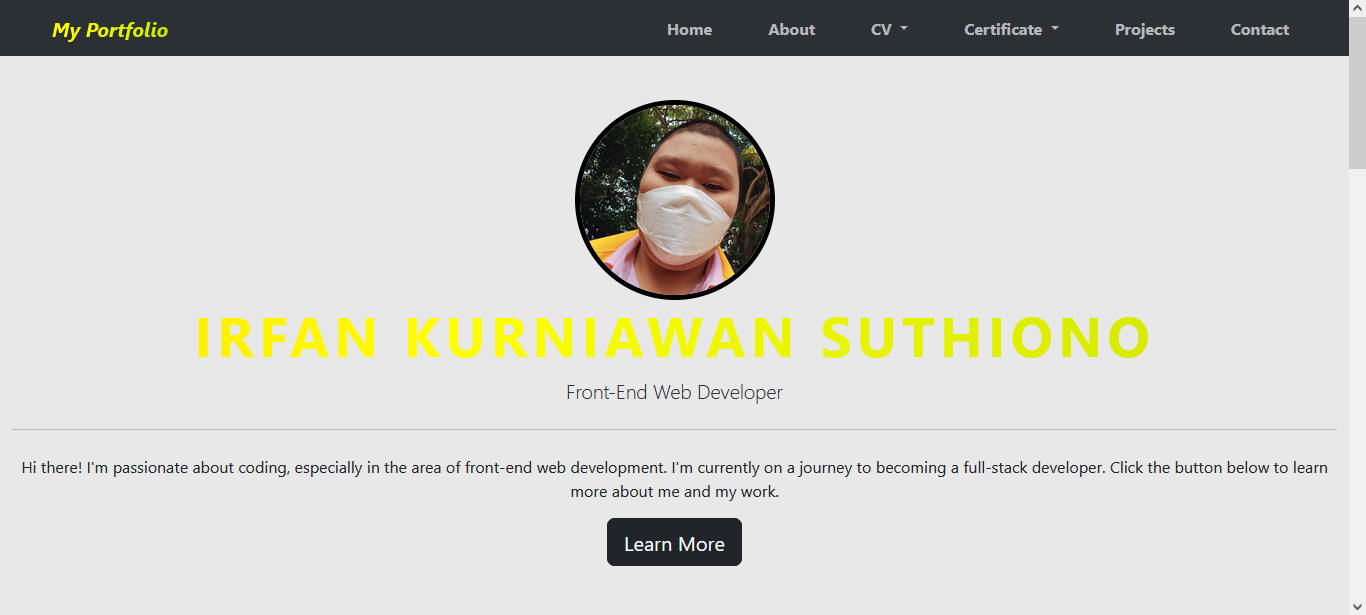
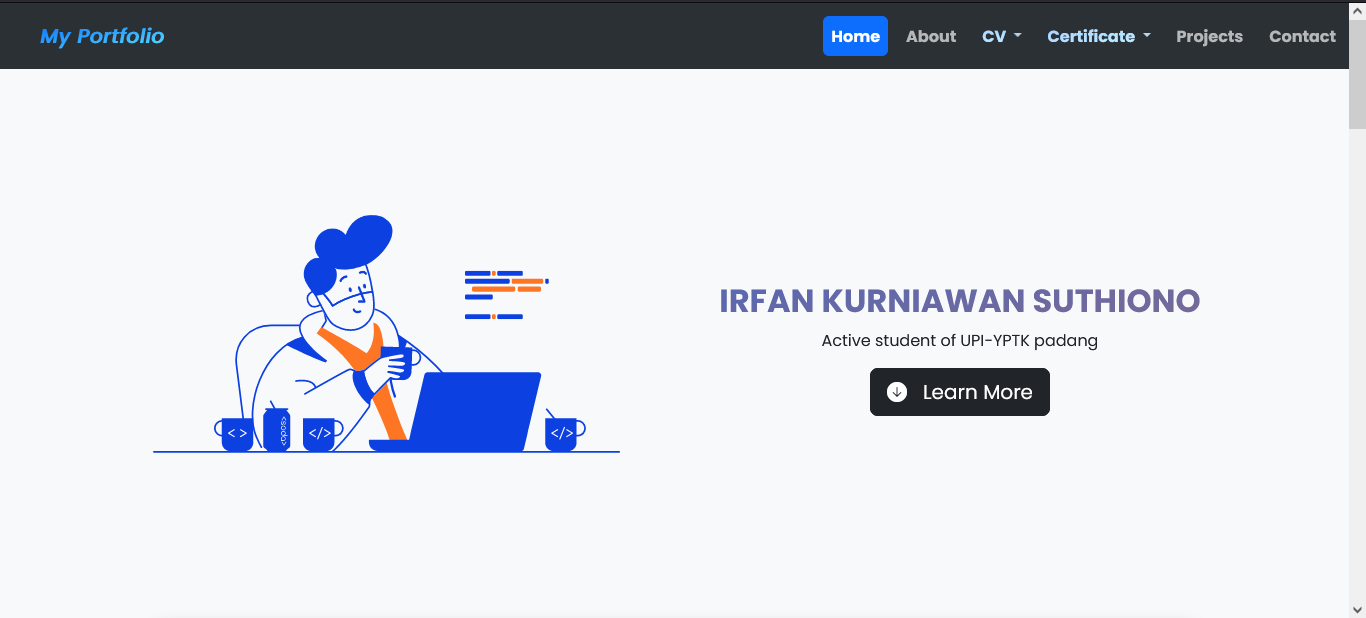
updated animate, thumbnail current portfolio

diff --git a/index.html b/index.html
@@ -7,9 +7,6 @@
     <title>Irfan Kurniawan</title>
 
     <!-- bootstrap -->
-    <script src="https://cdn.jsdelivr.net/npm/bootstrap@5.3.0-alpha3/dist/js/bootstrap.bundle.min.js" integrity="sha384-ENjdO4Dr2bkBIFxQpeoTz1HIcje39Wm4jDKdf19U8gI4ddQ3GYNS7NTKfAdVQSZe" crossorigin="anonymous"></script>
-
-    
     <link rel="stylesheet" href="https://cdn.jsdelivr.net/npm/bootstrap-icons@1.10.5/font/bootstrap-icons.css">
     <link href="bootstrap/css/bootstrap.css" rel="stylesheet" />
     <link rel="stylesheet" href="style.css" />
@@ -27,6 +24,9 @@
     <link rel="preconnect" href="https://fonts.googleapis.com">
     <link rel="preconnect" href="https://fonts.gstatic.com" crossorigin>
     <link href="https://fonts.googleapis.com/css2?family=Poppins:wght@400;700&display=swap" rel="stylesheet">
+    <link rel="preconnect" href="https://fonts.googleapis.com">
+    <link rel="preconnect" href="https://fonts.gstatic.com" crossorigin>
+    <link href="https://fonts.googleapis.com/css2?family=Poppins:ital,wght@1,500&display=swap" rel="stylesheet">
   </head>
   <body class="bg-body-tertiary">
     <header>
@@ -148,7 +148,8 @@
                   <div class="row ms-auto">
 
                     <!-- projek 1 -->
-                    <div class="col" data-aos="zoom-in-up" data-aos-duration="1000">
+                    <div class="col" data-aos="fade-up-right" data-aos-duration="1000" style="zin
+                    2">
                       <div class="card" style="width: 30rem;">
                           <img src="img/projek 1/projek1_thumbnail.png" class="card-img-top" alt="blogspot">
                           <div class="card-body">
@@ -169,7 +170,7 @@
 
 
                     <!-- wordpress - projek 2 -->
-                    <div class="col" data-aos="zoom-in-up" data-aos-duration="1500">
+                    <div class="col" data-aos="fade-up-left" data-aos-duration="1000">
                       <div class="card" style="width: 30rem;">
                           <img src="img/projek 2/testing-wordpress.png" class="card-img-top" alt="portfolio website pertama">
                           <div class="card-body">
@@ -190,7 +191,7 @@
 
 
                     <!-- projek 3 -->
-                    <div class="col" data-aos="zoom-in-up" data-aos-duration="1000">
+                    <div class="col" data-aos="fade-up-right" data-aos-duration="1000">
                       <div class="card" style="width: 30rem;">
                           <img src="img/projek 3/projek3_thumbnail.png" class="card-img-top" alt="portfolio website pertama">
                           <div class="card-body">
@@ -211,7 +212,7 @@
 
 
                     <!-- projek 4 - current website -->
-                    <div class="col" data-aos="zoom-in-up" data-aos-duration="1500">
+                    <div class="col" data-aos="fade-up-left" data-aos-duration="1000">
                       <div class="card" style="width: 30rem;">
                           <img src="img/projek 4/projek4_thumbnail.png" class="card-img-top" alt="portfolio website sekarang">
                           <div class="card-body">
@@ -239,14 +240,14 @@
         <div id="scrollspyHeading4">
           <div id="contact"></div>
             <!-- contact -->
-          <section class="contact" data-aos="fade-out">
+          <section class="contact" data-aos="flip-down">
             <div class="container">
               <div class="row text-center mb-3">
                 <div class="col">
                   <h2 class="contacts">Contact Me</h2>
                 </div>
               </div>
-              <form action="https://formspree.io/f/xzboojey" method="post">
+              <form action="https://formspree.io/f/xzboojey" target="_blank" method="post">
                 <div class="row justify-content-center">
                   <div class="col-md-4">
                     <div class="mb-3">
@@ -344,5 +345,9 @@
         <script>
           AOS.init();
         </script>
+
+
+        <!-- Bootstrap -->
+        <script src="https://cdn.jsdelivr.net/npm/bootstrap@5.3.0-alpha3/dist/js/bootstrap.bundle.min.js" integrity="sha384-ENjdO4Dr2bkBIFxQpeoTz1HIcje39Wm4jDKdf19U8gI4ddQ3GYNS7NTKfAdVQSZe" crossorigin="anonymous"></script>
       </body>
 </html>

diff --git a/style.css b/style.css
@@ -103,7 +103,7 @@ main{
 
 /* aboutme */
 #about{
-    height: 10em;
+    height: 8em;
 }
 .about-container{
     display: flex;
@@ -172,6 +172,7 @@ main{
 }
 .card{ 
     background: #e0e0e0;
+    margin-top: 3em;
     box-shadow: 10px 10px 5px 0px rgba(0,0,0,0.3);
     -webkit-box-shadow: 10px 10px 5px 0px rgba(0,0,0,0.3);
     -moz-box-shadow: 10px 10px 5px 0px rgba(0,0,0,0.3);
